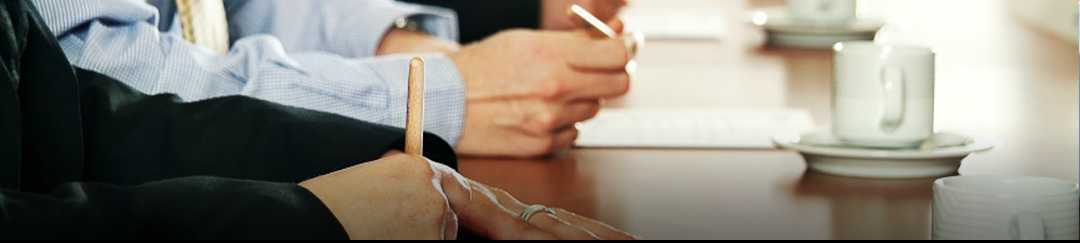
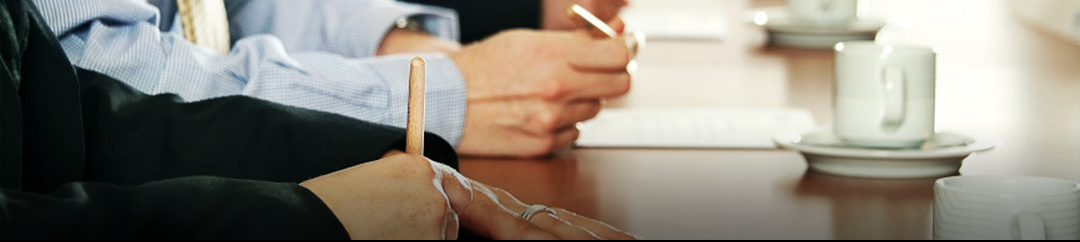
真机配置 更换图片格式

diff --git a/Galleon/ViewController.m b/Galleon/ViewController.m
@@ -90,7 +90,7 @@ typedef enum {
     [super viewDidAppear:animated];
     static dispatch_once_t onceToken;
     dispatch_once(&onceToken, ^{
-        //[[NSNotificationCenter defaultCenter] postNotificationName:NotificationLoginIn object:nil];
+        [[NSNotificationCenter defaultCenter] postNotificationName:NotificationLoginIn object:nil];
     });
 }
 
